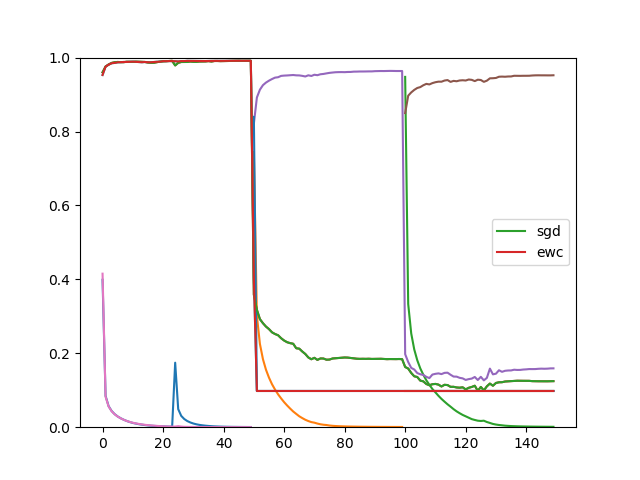
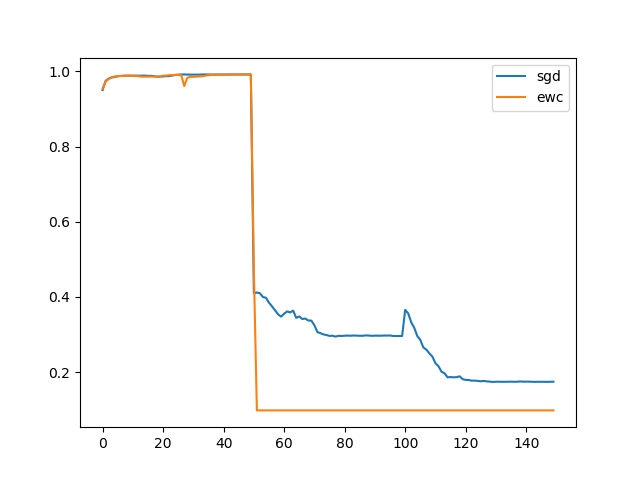
ewc plot

diff --git a/demo.py b/demo.py
@@ -164,13 +164,13 @@ loss, acc, weight = standard_process(epochs)
 # In[8]:
 
 
-loss_plot(loss)
+# loss_plot(loss)
 
 
 # In[9]:
 
 
-accuracy_plot(acc)
+# accuracy_plot(acc)
 
 
 # In[10]:
@@ -184,18 +184,20 @@ loss_ewc, acc_ewc = ewc_process(epochs, importance=1000,
 # In[11]:
 
 
-loss_plot(loss_ewc)
+# loss_plot(loss_ewc)
 
 
 # In[12]:
 
 
-accuracy_plot(acc_ewc)
+# accuracy_plot(acc_ewc)
 
 
 # In[13]:
 
-
+print('SGD', acc[0])
+print('EWC', acc_ewc[0])
+  
 plt.plot(acc[0], label="sgd")
 plt.plot(acc_ewc[0], label="ewc")
 plt.legend()
